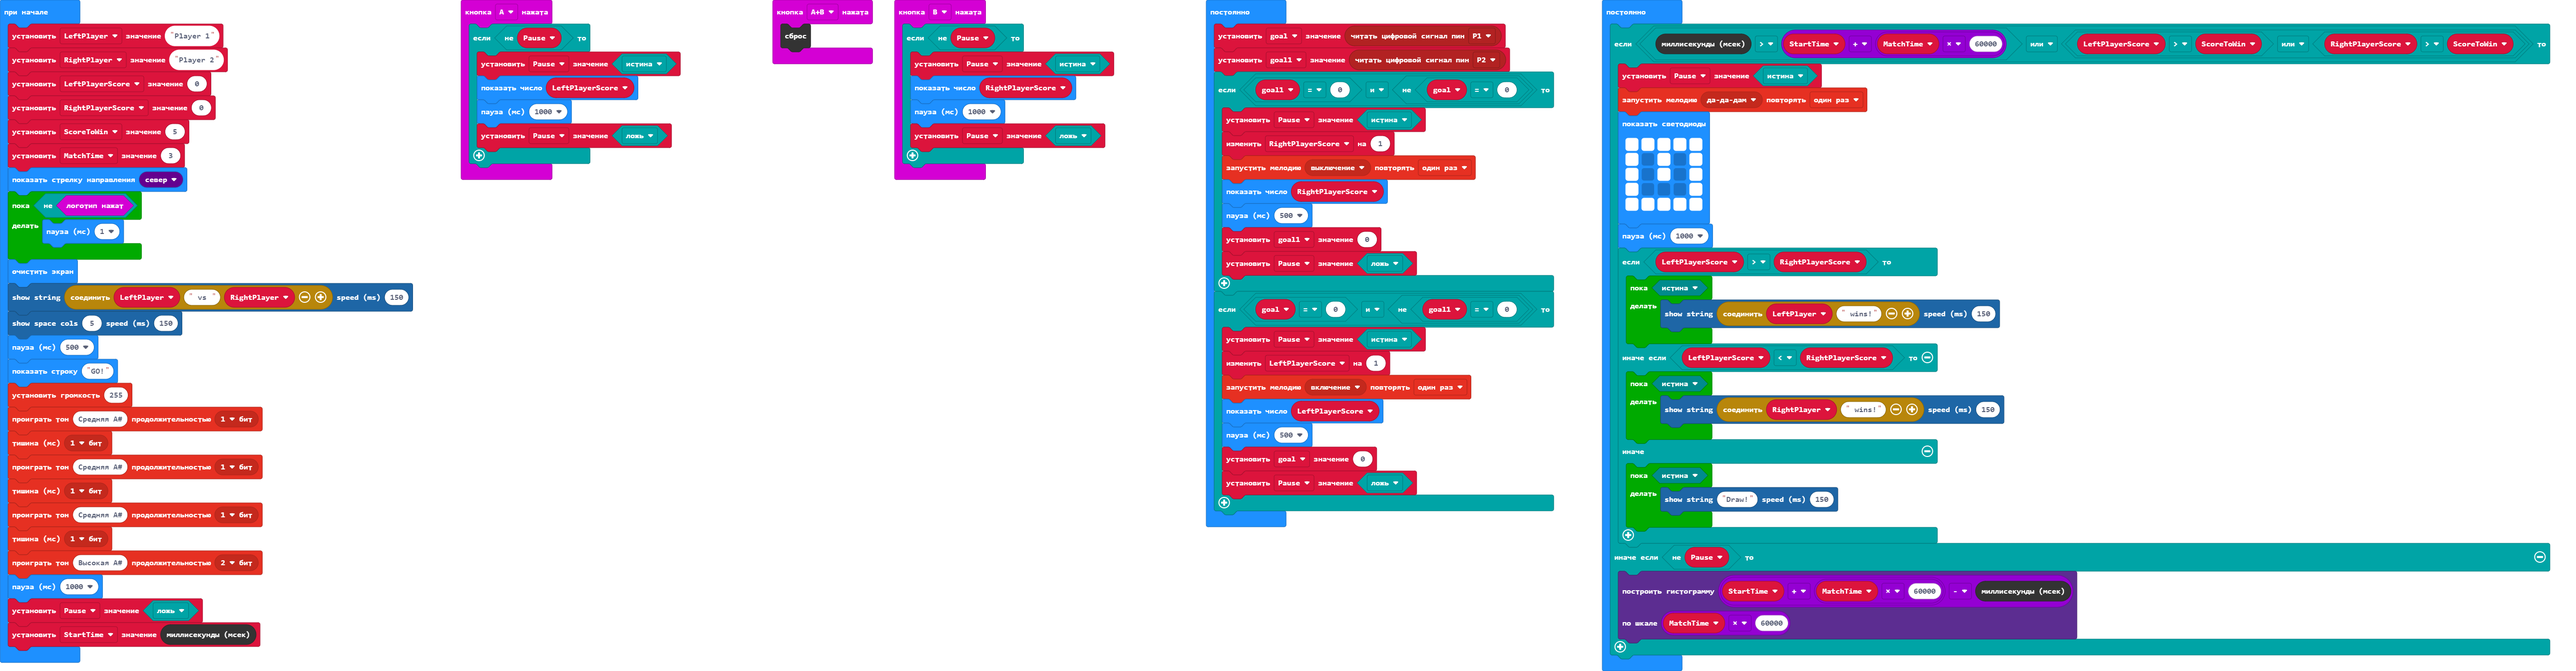
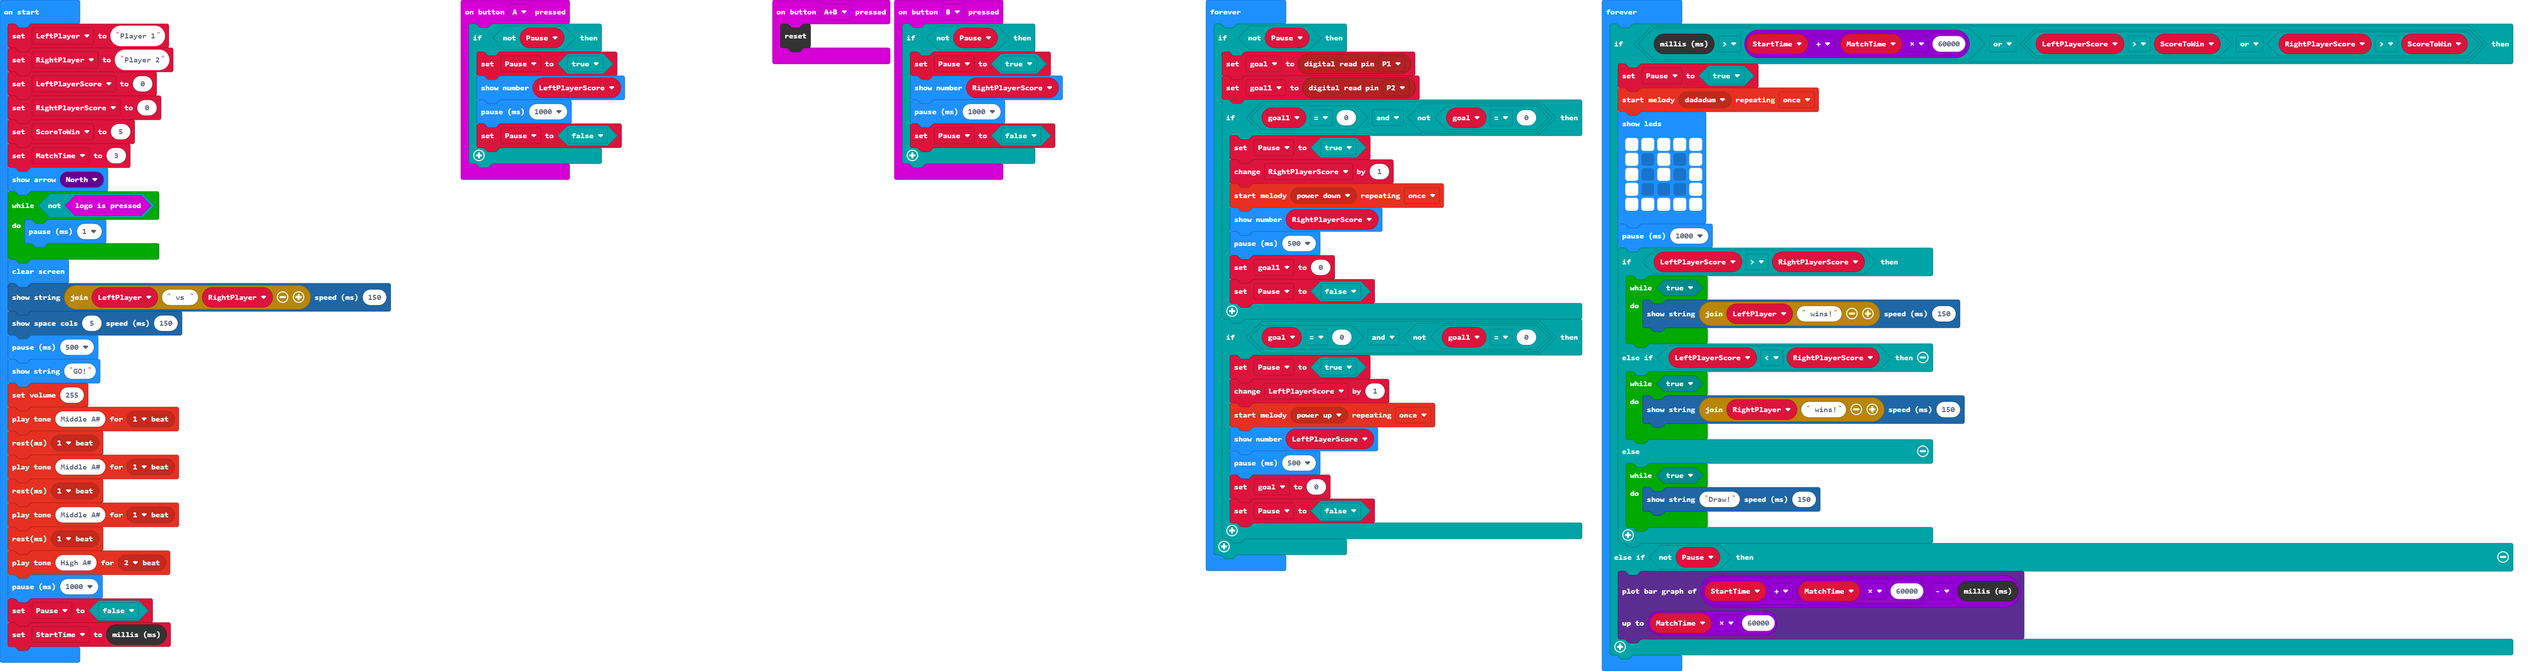
Update pxt.json, main.blocks, main.ts

diff --git a/main.ts b/main.ts
@@ -49,25 +49,27 @@ basic.pause(1000)
 Pause = false
 let StartTime = control.millis()
 basic.forever(function () {
-    goal = pins.digitalReadPin(DigitalPin.P1)
-    goal1 = pins.digitalReadPin(DigitalPin.P2)
-    if (goal1 == 0 && !(goal == 0)) {
-        Pause = true
-        RightPlayerScore += 1
-        music.startMelody(music.builtInMelody(Melodies.PowerDown), MelodyOptions.Once)
-        basic.showNumber(RightPlayerScore)
-        basic.pause(500)
-        goal1 = 0
-        Pause = false
-    }
-    if (goal == 0 && !(goal1 == 0)) {
-        Pause = true
-        LeftPlayerScore += 1
-        music.startMelody(music.builtInMelody(Melodies.PowerUp), MelodyOptions.Once)
-        basic.showNumber(LeftPlayerScore)
-        basic.pause(500)
-        goal = 0
-        Pause = false
+    if (!(Pause)) {
+        goal = pins.digitalReadPin(DigitalPin.P1)
+        goal1 = pins.digitalReadPin(DigitalPin.P2)
+        if (goal1 == 0 && !(goal == 0)) {
+            Pause = true
+            RightPlayerScore += 1
+            music.startMelody(music.builtInMelody(Melodies.PowerDown), MelodyOptions.Once)
+            basic.showNumber(RightPlayerScore)
+            basic.pause(500)
+            goal1 = 0
+            Pause = false
+        }
+        if (goal == 0 && !(goal1 == 0)) {
+            Pause = true
+            LeftPlayerScore += 1
+            music.startMelody(music.builtInMelody(Melodies.PowerUp), MelodyOptions.Once)
+            basic.showNumber(LeftPlayerScore)
+            basic.pause(500)
+            goal = 0
+            Pause = false
+        }
     }
 })
 basic.forever(function () {
